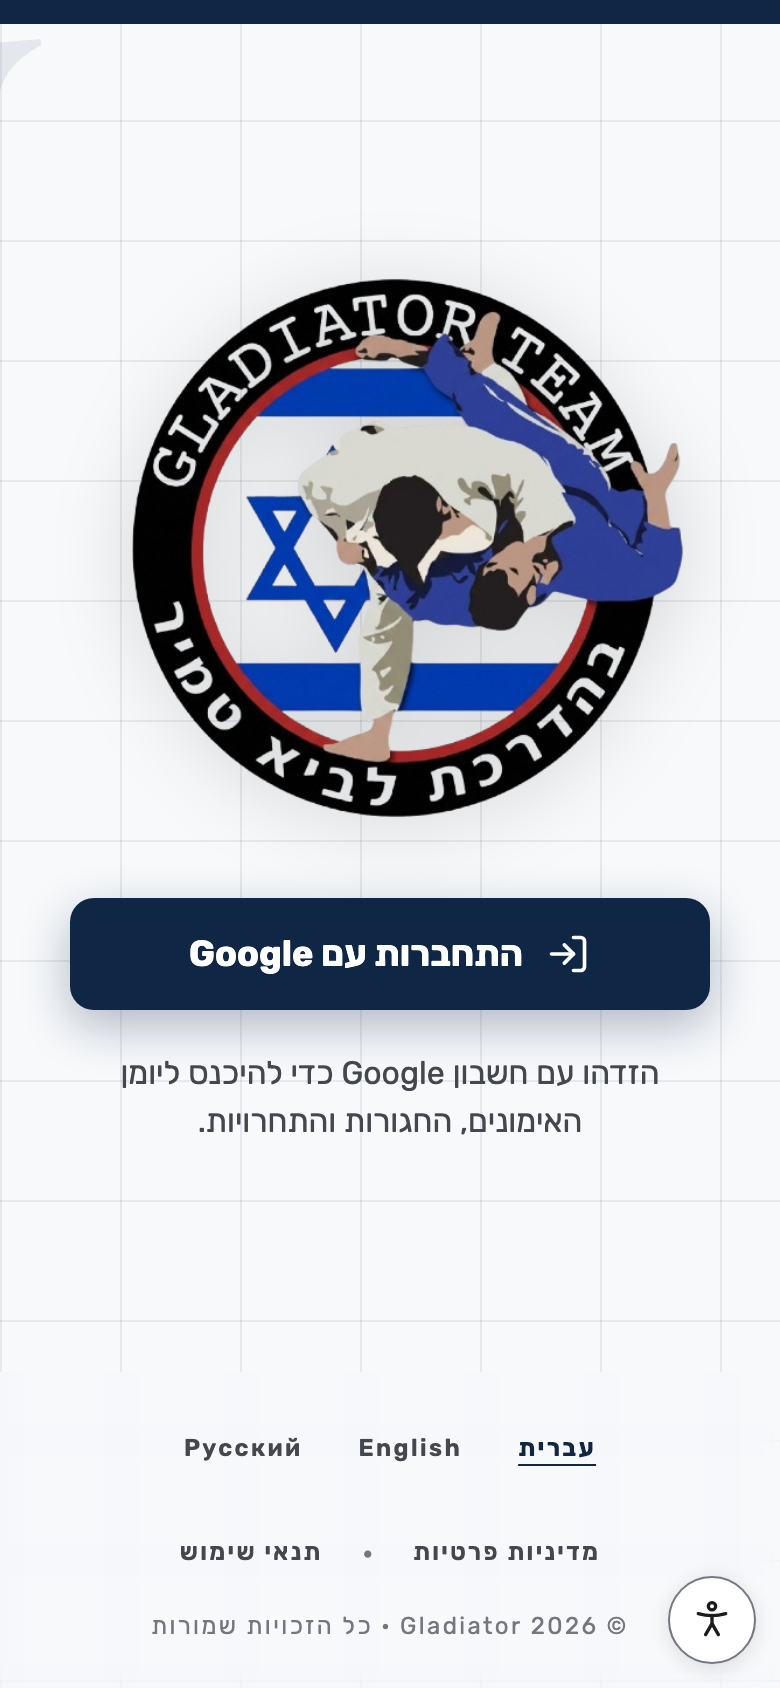
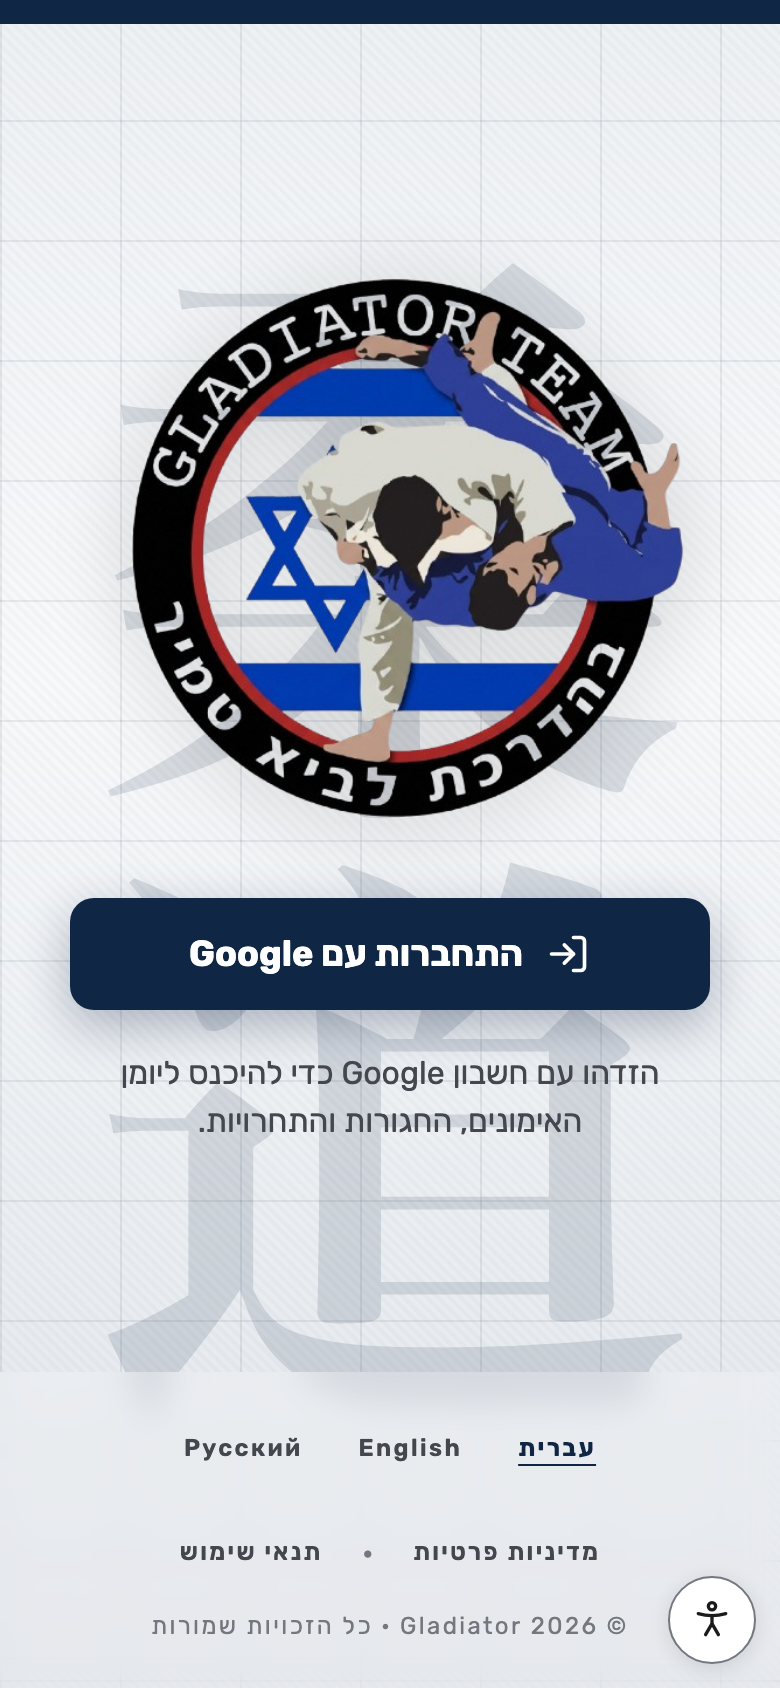
fix(signin): the 柔道 watermark was rendering off screen
The design's most recognisable element was missing from the build, and the cause
was two positioning bugs rather than the opacity I first blamed.

**It was outside the viewport.** The glyph was centred with `inset-inline-start:
50%` plus `translate(-50%, -50%)`. In an RTL document `inset-inline-start` is the
RIGHT edge, and the element's own `writing-mode: vertical-rl` re-maps what the
transform's percentages resolve against. Measured: a 340x680 box at top -598,
left -315 — almost entirely off canvas. It is centred by flexbox now, which has
no direction to get wrong.

**Then it was a flex item.** Nested correctly it still broke the page: the
watermark was a SIBLING of the absolutely-positioned ground rather than its
child, so the column laid it out as 600px of real content and pushed the logo,
the button and the footer down — the page grew from 844 to 1249 and the screen
began to scroll.

Neither was visible in the earlier capture as anything more than "the kanji is
missing", which is why the fix was measured in the browser instead of guessed at:
the first probe returned real 340x680 metrics, so the font stack was never the
problem and the opacity nudge before it was treating a symptom.

The ground also gains the design's other two layers, the tatami weave and the
vertical wash, which the first pass carried the grid without.

No webfont. An earlier attempt loaded a subsetted Noto Serif JP from Google
[…]

diff --git a/web/packages/ui/src/first-run/gladiator-signin.css b/web/packages/ui/src/first-run/gladiator-signin.css
@@ -307,34 +307,62 @@
  * 350px glyph in a Mincho serif; the family is not guaranteed on any device we
  * ship to, so the watermark falls back through the platform's own CJK serif and
  * is decorative either way. */
+
+/* Grid, tatami weave and the watermark in ONE layer, centred by flexbox.
+ *
+ * It used to centre the glyph with `inset-inline-start: 50%` plus a translate, and
+ * that is broken here twice over: `inset-inline-start` is the RIGHT edge in an RTL
+ * document, and the glyph's own `writing-mode: vertical-rl` re-maps what the
+ * transform's percentages resolve against. Measured result: a 340x680 box at
+ * top -598, left -315 — almost entirely off screen, which is why the design's most
+ * recognisable element was missing from the build. Layout centring has no direction
+ * to get wrong. */
 .gsignin--parent .gsignin-parent__ground {
   position: absolute;
   inset-block: 0;
   inset-inline: 0;
   z-index: 0;
   pointer-events: none;
+  display: flex;
+  align-items: center;
+  justify-content: center;
+  overflow: hidden;
   background-image:
     linear-gradient(to right, rgb(15 38 68 / 8%) 1px, transparent 1px),
-    linear-gradient(to bottom, rgb(15 38 68 / 8%) 1px, transparent 1px);
-  background-size: 60px 60px;
+    linear-gradient(to bottom, rgb(15 38 68 / 8%) 1px, transparent 1px),
+    repeating-linear-gradient(
+      45deg,
+      rgb(0 0 0 / 2%) 0,
+      rgb(0 0 0 / 2%) 2px,
+      transparent 2px,
+      transparent 4px
+    ),
+    linear-gradient(to bottom, rgb(15 38 68 / 4%), transparent 40%, rgb(15 38 68 / 10%));
+  background-size:
+    60px 60px,
+    60px 60px,
+    auto,
+    auto;
 }
 
+/* 柔道 — the design's watermark, in whichever Mincho the device has. The design
+ * named 'Yu Mincho' (Windows only); the stack below reaches macOS and iOS through
+ * Hiragino and Android through Noto, and falls back to the platform serif. No
+ * webfont: this stylesheet loads on all three apps' sign-in screens, and a
+ * render-blocking remote font for one decorative glyph is a poor trade. */
 .gsignin--parent .gsignin-parent__kanji {
-  position: absolute;
-  inset-block-start: 50%;
-  inset-inline-start: 50%;
-  transform: translate(-50%, -50%);
-  font-family: 'Yu Mincho', 'Hiragino Mincho ProN', 'MS Mincho', serif;
-  font-size: 340px;
+  font-family:
+    'Yu Mincho', 'Hiragino Mincho ProN', 'Noto Serif CJK JP', 'Noto Serif JP',
+    'MS Mincho', serif;
+  font-size: 300px;
   font-weight: 700;
   line-height: 1;
-  color: rgb(15 38 68 / 8%);
+  color: rgb(15 38 68 / 13%);
   writing-mode: vertical-rl;
   text-orientation: upright;
   white-space: nowrap;
-  z-index: 0;
-  pointer-events: none;
   user-select: none;
+  flex: none;
 }
 
 .gsignin--parent .gsignin-parent__body {

diff --git a/web/packages/ui/src/first-run/SignIn.tsx b/web/packages/ui/src/first-run/SignIn.tsx
@@ -90,11 +90,13 @@ export function SignIn({
     return (
       <div className="gsignin gsignin--parent" data-testid="sign-in">
         <div className="gsignin-parent__rule" />
-        <div className="gsignin-parent__ground" aria-hidden="true" />
-        {/* Decorative, and marked so: a screen reader announcing "柔道" on a Hebrew
-            sign-in screen is noise, not atmosphere. */}
-        <div className="gsignin-parent__kanji" aria-hidden="true">
-          柔道
+        {/* The watermark lives INSIDE the ground, which is the absolutely-positioned
+            layer. As a sibling it was a flex item of the column instead — 600px of
+            real layout that pushed the logo, the button and the footer down and grew
+            the page from 844 to 1249. Decorative either way, and marked so: a screen
+            reader announcing "柔道" on a Hebrew sign-in screen is noise. */}
+        <div className="gsignin-parent__ground" aria-hidden="true">
+          <span className="gsignin-parent__kanji">柔道</span>
         </div>
 
         <div className="gsignin-parent__body">
